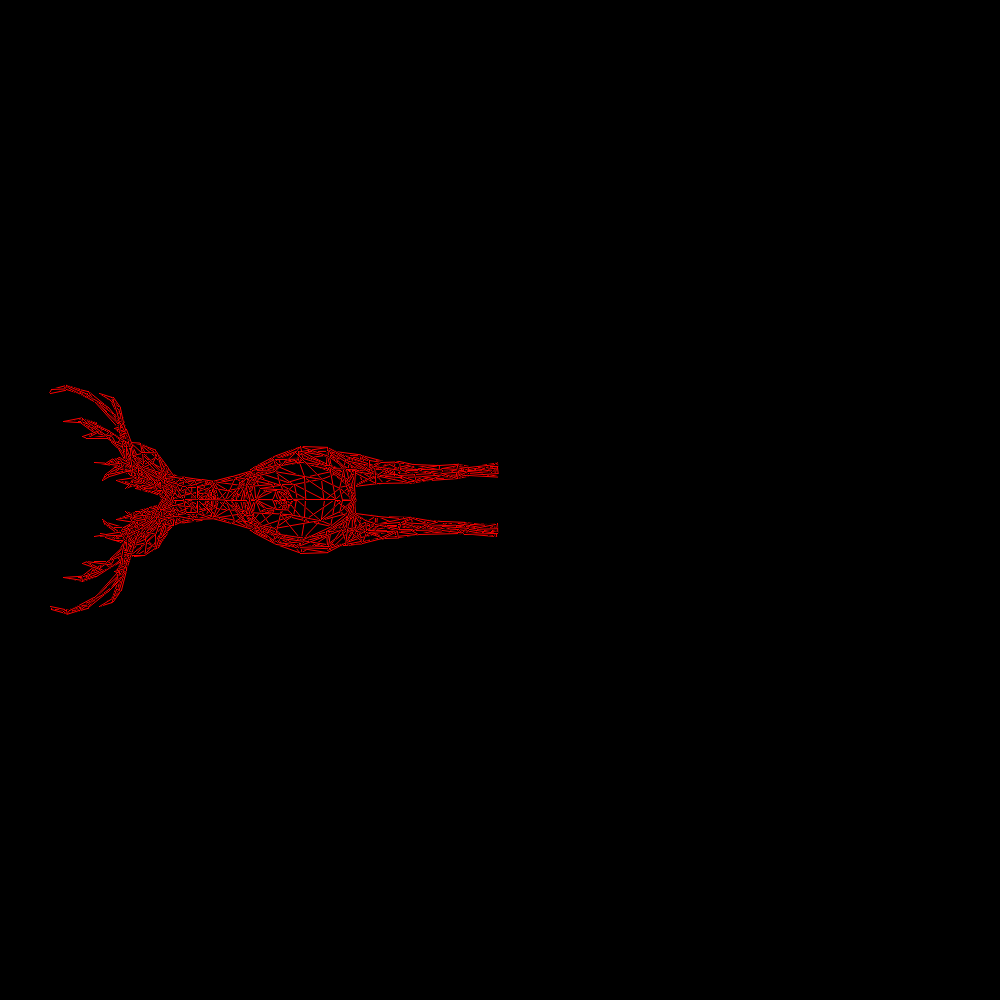
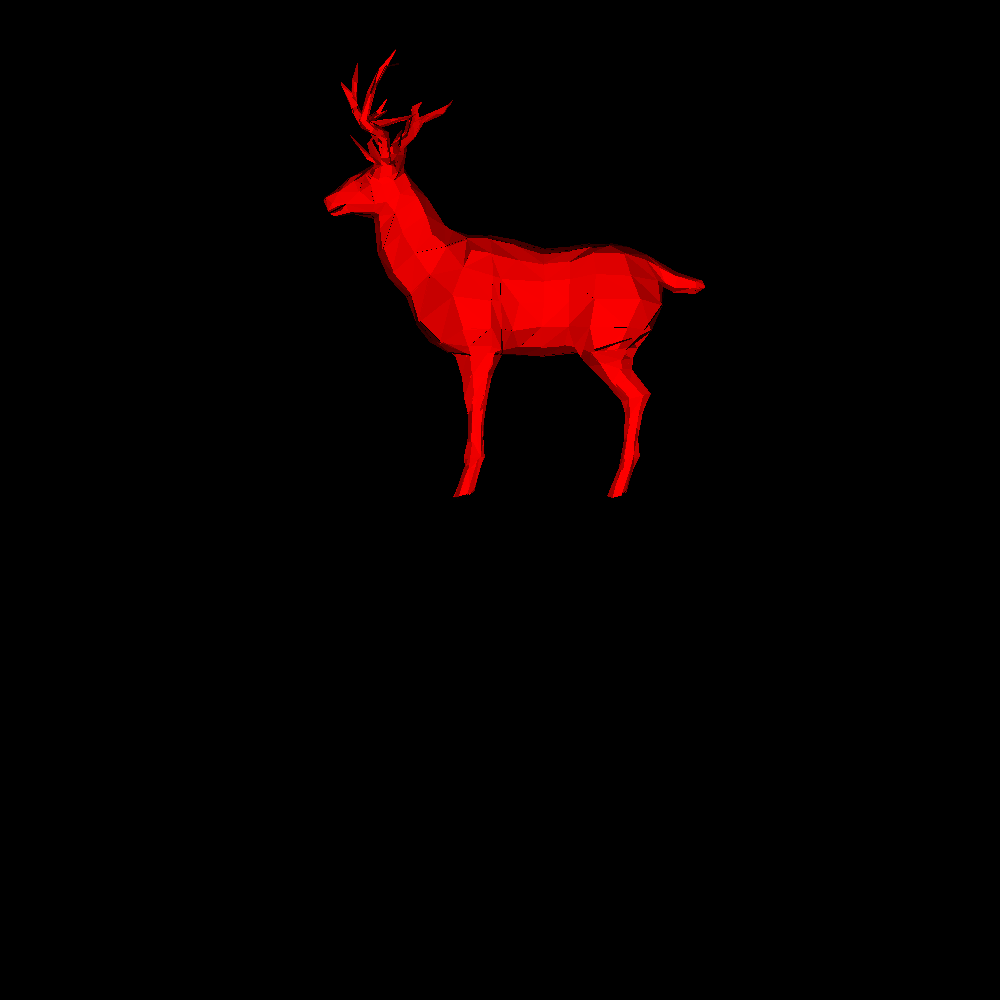
second module without z-buffer

Changed region(s): [[0.062, 0.062, 0.713, 0.62]]

diff --git a/painter.py b/painter.py
@@ -1,8 +1,12 @@
 import numpy as np
-from PIL import ImageDraw
+from PIL import ImageDraw , Image
+from graphics import Point
 
 
-def line_brezenhem( x0 , y0 , x1 , y1 , im ) :
+def line_brezenhem( start: Point , end: Point , im , color=(255 , 0 , 0) ) :
+    x0 , y0 = (start.x , start.y)
+    x1 , y1 = (end.x , end.y)
+
     steeps = False
     if np.abs( x0 - x1 ) < np.abs( y0 - y1 ) :
         x0 , y0 = (y0 , x0)
@@ -18,19 +22,18 @@ def line_brezenhem( x0 , y0 , x1 , y1 , im ) :
     y = y0
     d = ImageDraw.Draw( im )
     for i in np.arange( x0 , x1 , 1 ) :
-        if steeps :
-            d.point( [ y , i ] , fill=(255 , 0 , 0) )
-        else :
-            d.point( [ i , y ] , fill=(255 , 0 , 0) )
+        d.point( [ i , y ] if not steeps else [ y , i ] , fill=color )
         error += derror
         if error > 0.5 :
             y += 1 if y1 > y0 else -1
             error -= 1
 
 
-def line_vu( x0 , y0 , x1 , y1 , im ) :
-    steeps = np.abs( x0 - x1 ) < np.abs( y0 - y1 )
+def line_vu( start: Point , end: Point , im , color=(255 , 0 , 0) ) :
+    x0 , y0 = (start.x , start.y)
+    x1 , y1 = (end.x , end.y)
 
+    steeps = np.abs( x0 - x1 ) < np.abs( y0 - y1 )
     if steeps :
         x0 , y0 = (y0 , x0)
         x1 , y1 = (y1 , x1)
@@ -48,13 +51,39 @@ def line_vu( x0 , y0 , x1 , y1 , im ) :
 
     d = ImageDraw.Draw( im )
     for i in np.arange( x0 , x1 , 1 ) :
-        if not steeps :
-            d.point( [ i , y ] , fill=(int( 255 * (1 - error) ) , 0 , 0) )
-            d.point( [ i , y + sy ] , fill=(int( 255 * error ) , 0 , 0) )
-        else :
-            d.point( [ y , i ] , fill=(int( 255 * (1 - error) ) , 0 , 0) )
-            d.point( [ y + sy , i ] , fill=(int( 255 * error ) , 0 , 0) )
+
+        base_color = tuple( [ int( i * (1 - error) ) for i in list( color ) ] )
+        add_color = tuple( [ int( i * error ) for i in list( color ) ] )
+
+        d.point( [ i , y ] if not steeps else [ y , i ] , fill=base_color )
+        d.point( [ i , y + sy ] if not steeps else [ y + sy , i ] , fill=add_color )
+
         error += derror
         if error > 1 :
             y += sy
             error -= 1
+
+
+def is_inside_triangle( point: Point , first: Point , second: Point , third: Point ) -> bool :
+    l0 = ((point.y - third.y) * (second.x - third.x) - (point.x - third.x) * (second.y - third.y)) / \
+         ((first.y - third.y) * (second.x - third.x) - (first.x - third.x) * (second.y - third.y))
+    l1 = ((point.y - first.y) * (third.x - first.x) - (point.x - first.x) * (third.y - first.y)) / \
+         ((second.y - first.y) * (third.x - first.x) - (second.x - first.x) * (third.y - first.y))
+    l2 = ((point.y - second.y) * (first.x - second.x) - (point.x - second.x) * (first.y - second.y)) / \
+         ((third.y - second.y) * (first.x - second.x) - (third.x - second.x) * (first.y - second.y))
+    return l0 >= 0 and l1 >= 0 and l2 >= 0
+
+
+def colorize( first: Point , second: Point , third: Point , im: Image , color=(255 , 0 , 0) ) :
+    d = ImageDraw.Draw( im )
+    for i in np.arange( min( first.x , second.x , third.x ) , max( first.x , second.x , third.x ) + 1 , 1 ) :
+        for j in np.arange( min( first.y , second.y , third.y ) , max( first.y , second.y , third.y ) + 1 , 1 ) :
+            if is_inside_triangle( Point( i , j ) , first , second , third ) :
+                d.point( [ i , j ] , fill=color )
+
+
+def paint_triangle( point1: Point , point2: Point , point3: Point , image: Image , color=(255 , 0 , 0) , line_func=line_brezenhem ) :
+    line_func( point1 , point2 , image , color )
+    line_func( point2 , point3 , image , color )
+    line_func( point3 , point1 , image , color )
+    colorize( point1 , point2 , point3 , image , color )

diff --git a/main.py b/main.py
@@ -1,30 +1,34 @@
 from PIL import Image
-from graphics import Point
 
 import painter as pt
+import triangle as tr
 from parser import getPointDraw
 
 
-def drawEdges( x , y , edges , im: Image , line ) :
-    for i in range( len( edges ) ) :
-        triangle = edges[ i ]
-        scale = - im.width / 2 * .9
-        center = im.width / 2
-        point1 = Point( scale * x[ int( triangle.first ) - 1 ] + center , scale * y[ int( triangle.first ) - 1 ] + center )
-        point2 = Point( scale * x[ int( triangle.second ) - 1 ] + center , scale * y[ int( triangle.second ) - 1 ] + center )
-        point3 = Point( scale * x[ int( triangle.third ) - 1 ] + center , scale * y[ int( triangle.third ) - 1 ] + center )
-        line( point1.x , point1.y , point2.x , point2.y , im )
-        line( point2.x , point2.y , point3.x , point3.y , im )
-        line( point3.x , point3.y , point1.x , point1.y , im )
-
-
-def is_inside_triangle( point: Point , first: Point , second: Point , third: Point ) -> bool :
-    # todo слайд 16 из лекция
-    return False
+def get_point( index ) :
+    return tr.Point( scale * vertexList[ index , 0 ] + center ,
+                     scale * vertexList[ index , 1 ] + center ,
+                     scale * vertexList[ index , 2 ] + center )
 
 
 if __name__ == '__main__' :
     im = Image.new( 'RGB' , (1000 , 1000) )
-    vertexList , edgesList = getPointDraw( 'african_head.obj' )
-    drawEdges( vertexList[ : , 0 ] , vertexList[ : , 1 ] , edgesList , im , pt.line_vu )
-    im.save( 'african_head.png' )
+    scale = - im.width / 2 * .9
+    center = im.width / 2
+    vertexList , edgesList = getPointDraw( 'deer.obj' )
+
+    cam_direction = tr.Point( 0 , 0 , 1 )
+    light_direction = tr.Point( 0 , 0 , 1 )
+    color = (255 , 0 , 0)
+
+    for triangle in filter( lambda polygon : polygon.direction().angle( cam_direction ) > 0 ,
+                            [ tr.Triangle( get_point( int( triangle.first ) - 1 ) ,
+                                           get_point( int( triangle.second ) - 1 ) ,
+                                           get_point( int( triangle.third ) - 1 ) ) for triangle in edgesList ] ) :
+        light_angle = triangle.direction().angle( light_direction )
+        pt.paint_triangle( triangle.first.projection() ,
+                           triangle.second.projection() ,
+                           triangle.third.projection() ,
+                           im ,
+                           color=tuple( [ int( i * light_angle ) for i in list( color ) ] ) )
+    im.save( 'deer.png' )

diff --git a/triangle.py b/triangle.py
@@ -1,5 +1,46 @@
-class Triangle:
-    def __init__(self, first, second, third):
+import math
+
+import graphics
+import numpy as np
+
+
+class Point :
+    def __init__( self , first: float , second: float , third: float ) :
         self.first = first
         self.second = second
         self.third = third
+
+    def __to_array__( self ) :
+        return [ self.first , self.second , self.third ]
+
+    def dot_product( self , another ) -> float :
+        return sum( i * j for i , j in zip( self.__to_array__() , another.__to_array__() ) )
+
+    def norm( self ) -> float :
+        return math.sqrt( self.dot_product( self ) )
+
+    def angle( self , another ) -> float :
+        return self.dot_product( another ) / (self.norm() * another.norm())
+
+    def vector_product( self , another ) :
+        cross = np.cross( self.__to_array__() , another.__to_array__() )
+        return Point( cross[ 0 ] , cross[ 1 ] , cross[ 2 ] )
+
+    def subtract( self , another ) :
+        subtract = np.subtract( self.__to_array__() , another.__to_array__() )
+        return Point( subtract[ 0 ] , subtract[ 1 ] , subtract[ 2 ] )
+
+    def projection( self , cam_direction=(0 , 0 , 1) ) -> graphics.Point :
+        return graphics.Point( self.first , self.second )
+
+
+class Triangle :
+    def __init__( self , first: Point , second: Point , third: Point ) :
+        self.first = first
+        self.second = second
+        self.third = third
+
+    def direction( self ) -> Point :
+        first_vec = self.first.subtract( self.second )
+        second_vec = self.first.subtract( self.third )
+        return first_vec.vector_product( second_vec )
